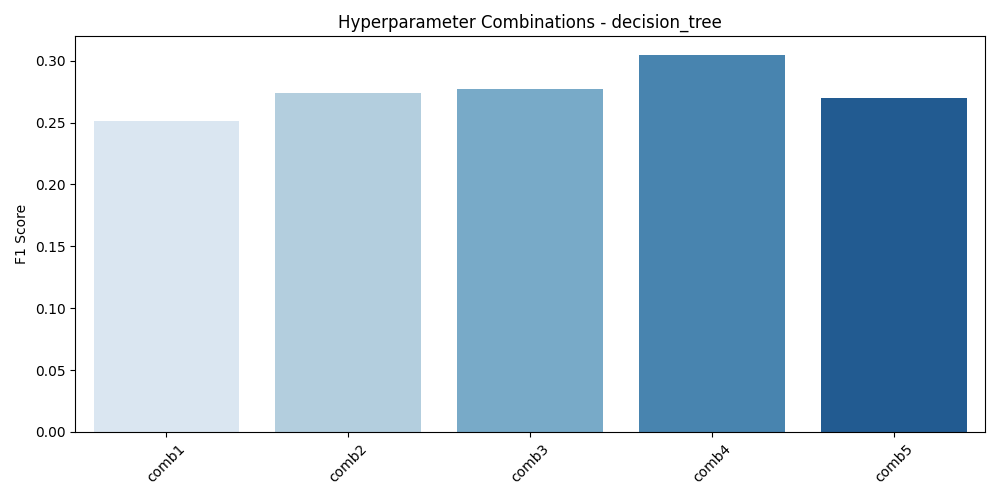
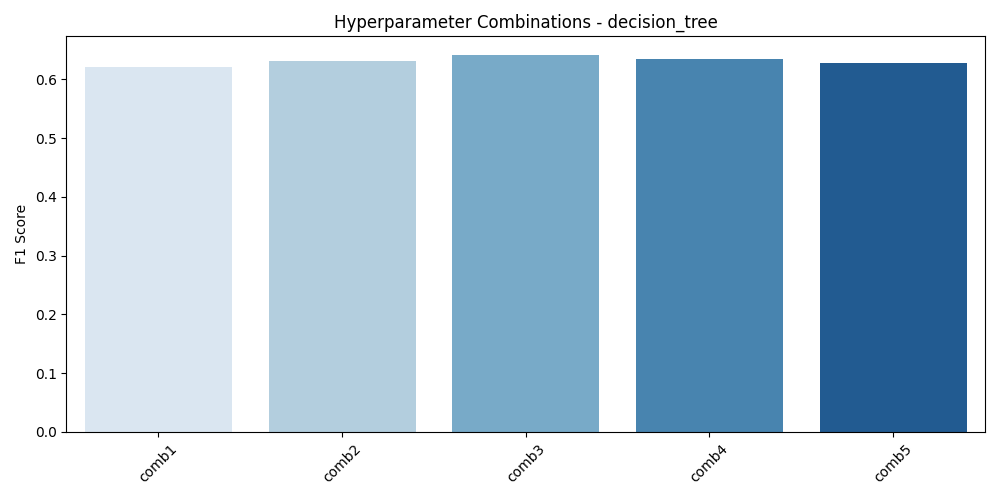
fixed hyperparams test

diff --git a/best_hyperparams_test.py b/best_hyperparams_test.py
@@ -73,7 +73,7 @@ with open(best_file_path, "w") as f:
                     y_pred = [round(y) for y in y_pred]
                     score = mean_absolute_error(y_test, y_pred)
                 else:
-                    score = f1_score(y_test, y_pred, average='macro')
+                    score = f1_score(y_test, y_pred, labels=y_test, average='macro')
 
                 scores.append(score)
 
